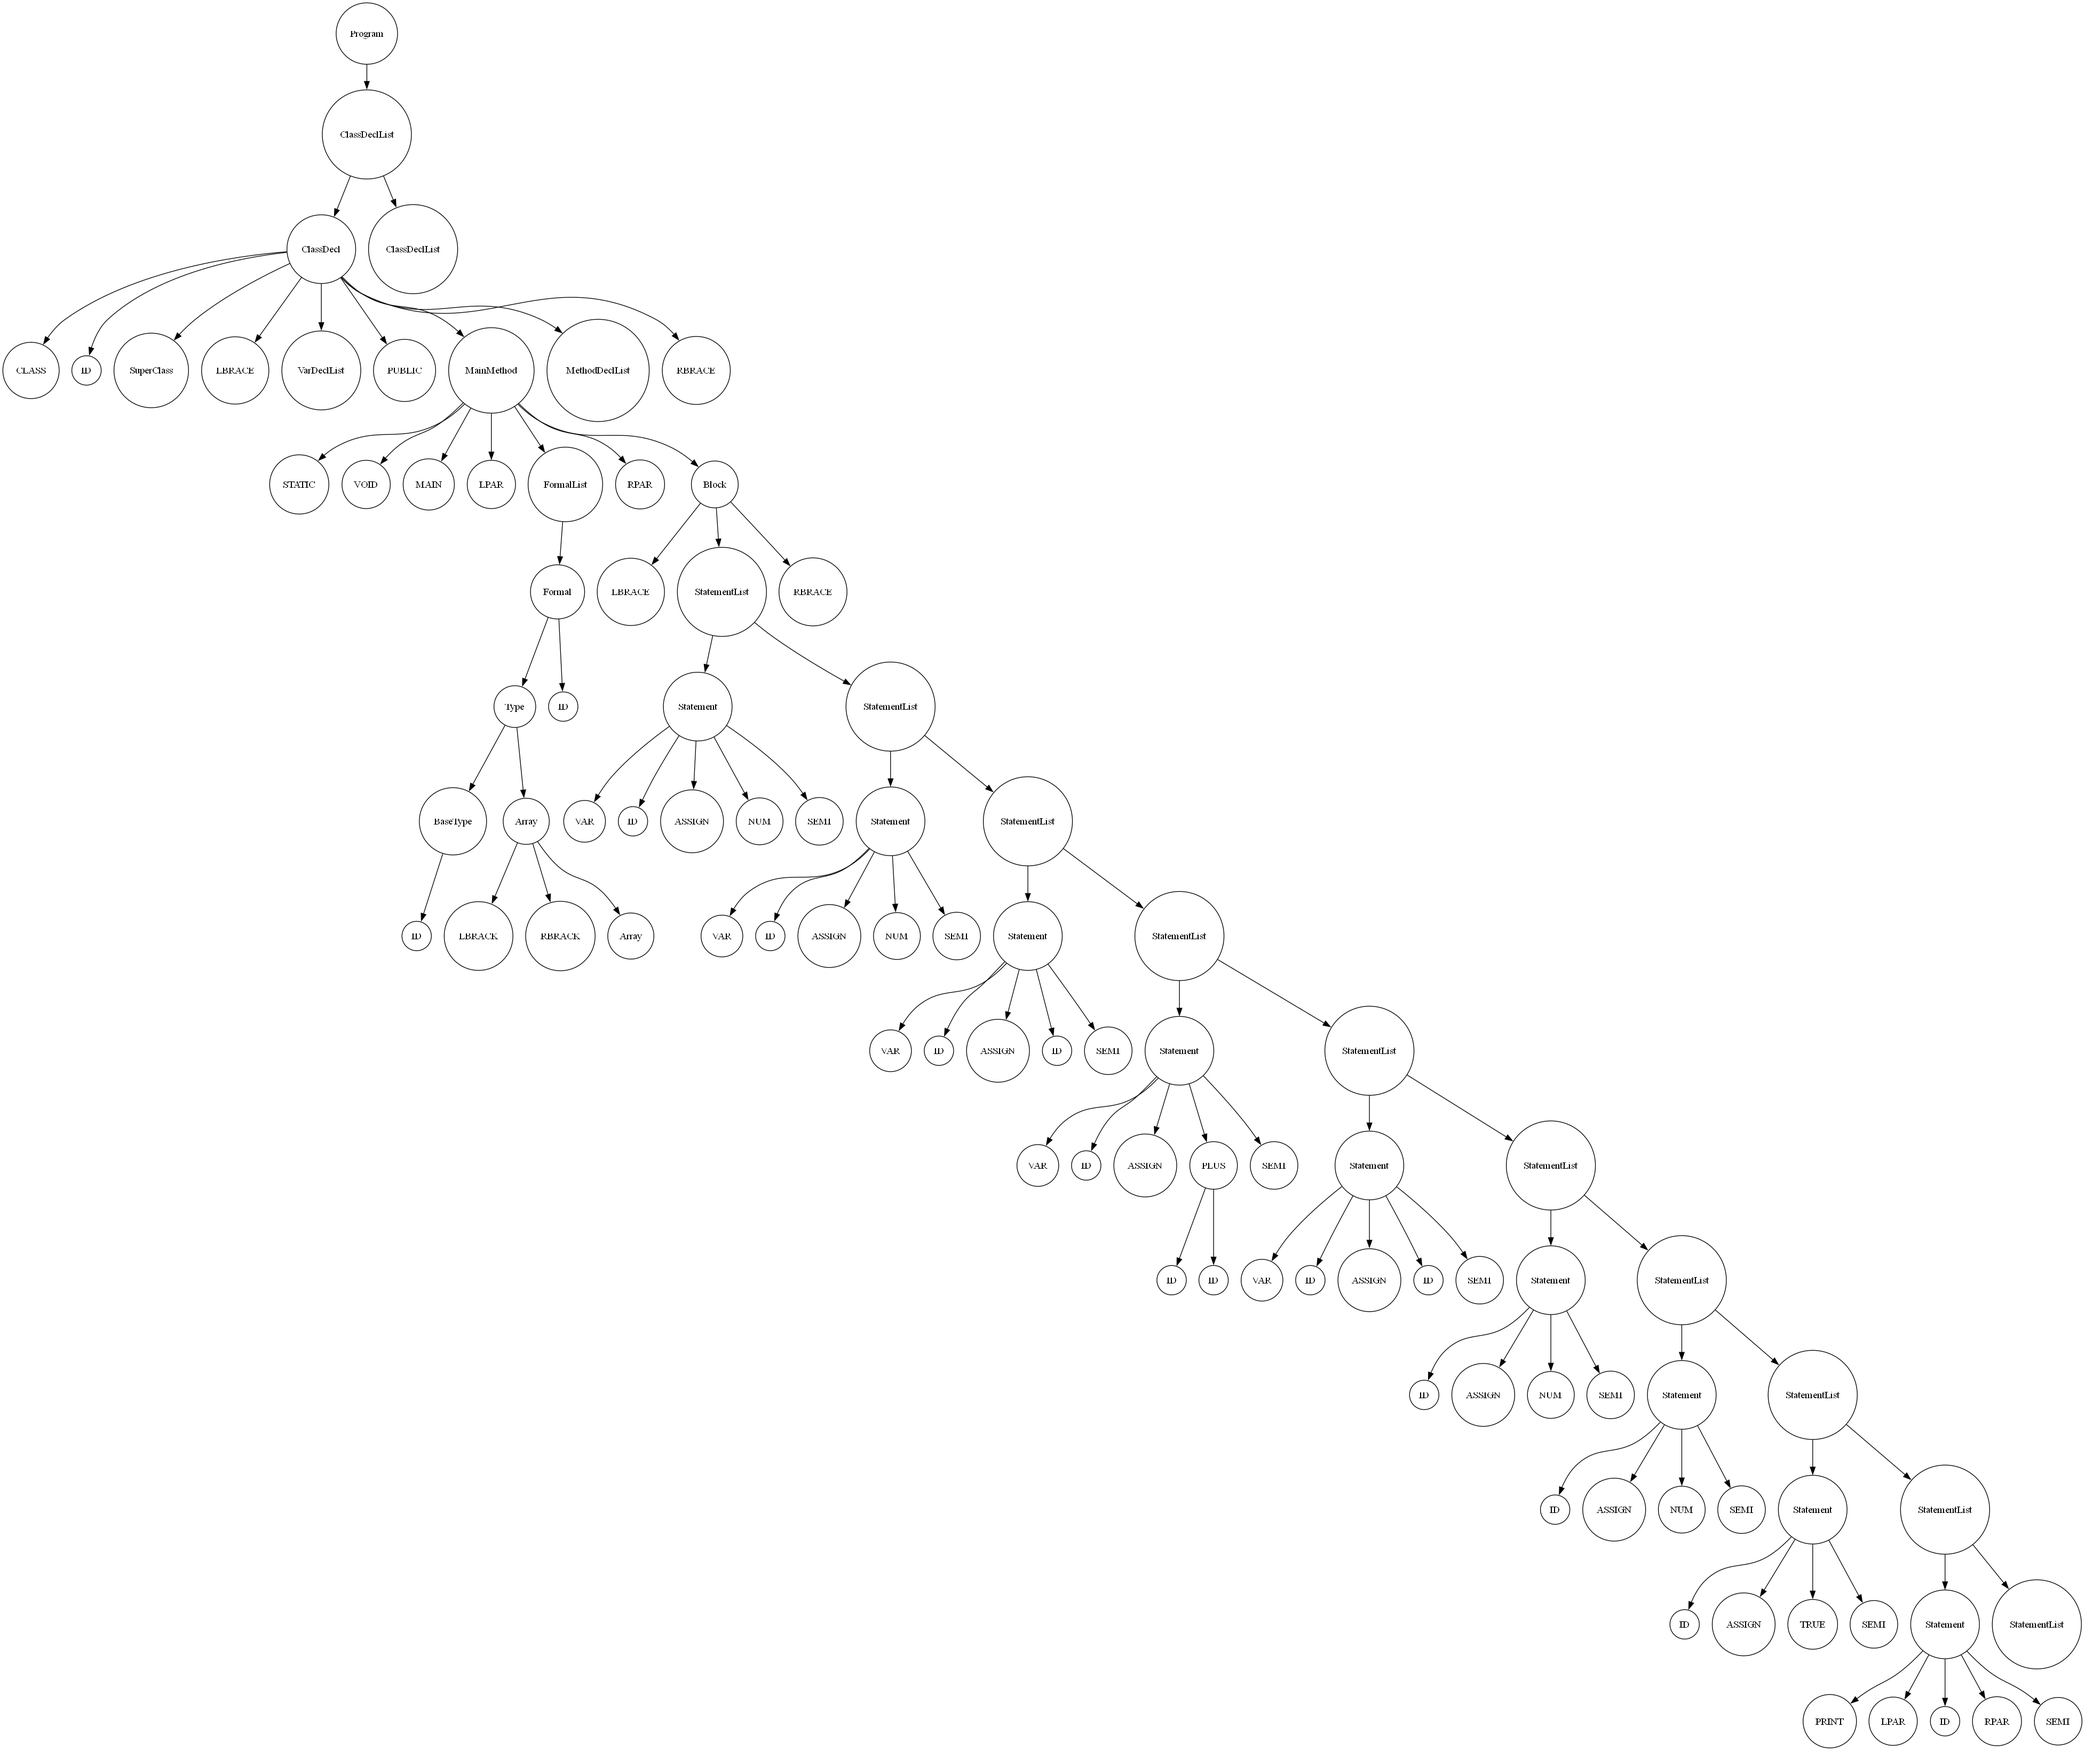
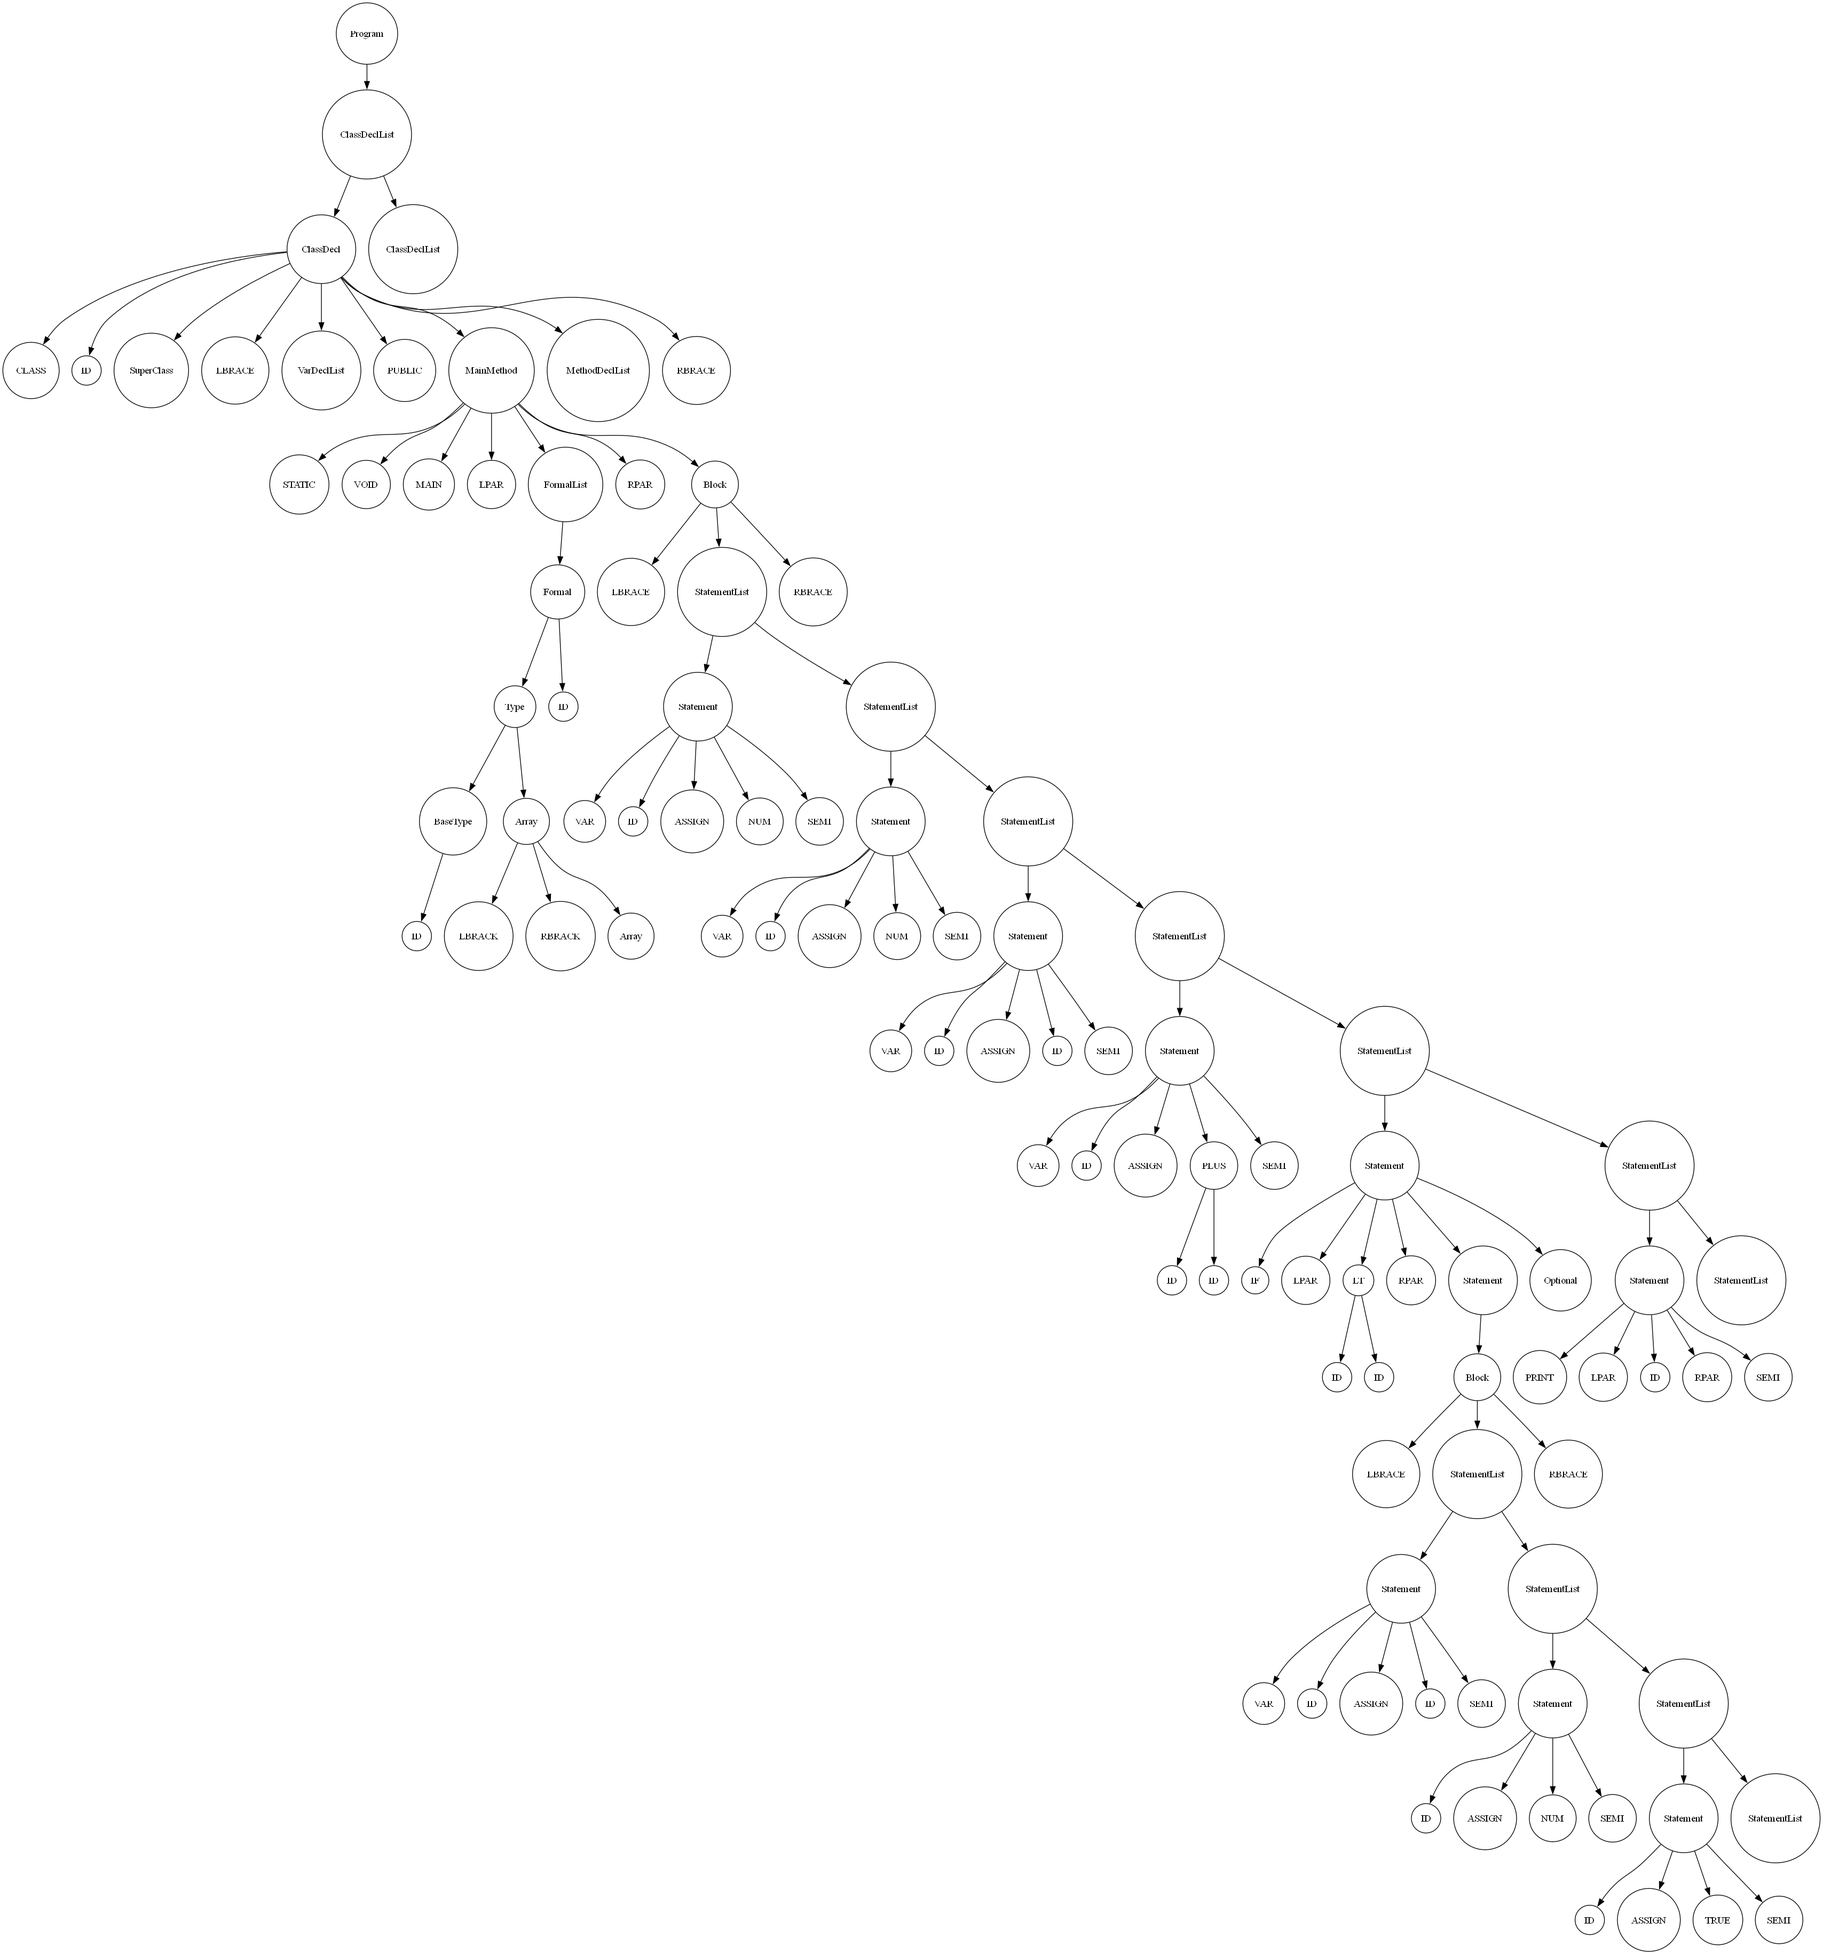
Análise semântica global detecta tipos incompatíveis

diff --git a/src/semanticAnalyser.js b/src/semanticAnalyser.js
@@ -2,6 +2,7 @@ export class SemanticAnalyser{
 
     constructor(){
         this.bindings = {};
+        this.scopes   = [];
     }
 
     analyse(AST){
@@ -15,23 +16,30 @@ export class SemanticAnalyser{
 }
 
 
-export class ImperativeSemantics extends SemanticAnalyser{
+export class GlobalSemantics extends SemanticAnalyser{
 
     constructor(){
         super();
 
         //Hashtable de bindings vai ser implementada como um objeto com array para cada hash
         this.bindings = {};
+
+        this.scopes = []
     }
 
     analyse(AST){
         
         this.visit(AST);
 
-        return this.bindings;
+        this.scopes.map(bindings => this.detectAmbiguity(bindings))
+
+        return this.scopes;
     }
 
     visit(node){
+
+        if(node.type == "ClassDecl") 
+            this.beginScope();
 
         if(node.type == "Statement"){
 
@@ -42,6 +50,9 @@ export class ImperativeSemantics extends SemanticAnalyser{
         }
 
         node.children.forEach(child => this.visit(child))
+
+        if(node.type == "ClassDecl") 
+            this.endScope();
     }
 
     addBinding(node){
@@ -74,6 +85,29 @@ export class ImperativeSemantics extends SemanticAnalyser{
         }
 
         return mappings[node.type]
+    }
+
+    beginScope(){
+
+        this.bindings = {};
+    }
+
+    endScope(){
+
+        this.scopes.push(this.bindings);
+
+    }
+
+    detectAmbiguity(bindings){
+
+        for(const [key, binding] of Object.entries(bindings)){
+
+            if(!binding[0]) return console.log(`Variável '${key}' recebendo variável não declarada `);
+
+            const mainType = binding[0];
+
+            if(binding.some(type => type != mainType)) console.log(`Variável '${key}' recebendo tipo incompatível: ` + binding);
+        }
     }
     
 }

diff --git a/src/compilers.js b/src/compilers.js
@@ -1,6 +1,6 @@
 import { AST1, MiniJavaAST } from "./abstractSyntaxTree.js"
 import { LLParser, PredictiveParser } from "./parser.js"
-import { ImperativeSemantics } from "./semanticAnalyser.js"
+import { GlobalSemantics } from "./semanticAnalyser.js"
 
 export const compiler1 = {
     lexicalRules: [
@@ -349,7 +349,7 @@ export const compiler7MiniJava =  {
   
     parser: LLParser,
     abstractSyntaxTree: new MiniJavaAST(), 
-    semantics: new ImperativeSemantics(),
+    semantics: new GlobalSemantics(),
     phases: 4,
     code: [
       `class Test {
@@ -397,10 +397,12 @@ export const compiler7MiniJava =  {
                 var b = 5;
                 var sum = a;
                 var sum2 = a + b;
-                var josias = abacate;
-                sum = 22;
-                a = 88;
-                a = true;
+
+                if(a < b){
+                    var josias = abacate;
+                    sum = 22;
+                    a = true;
+                }
                 System.out.println(sum); 
             }
         }
